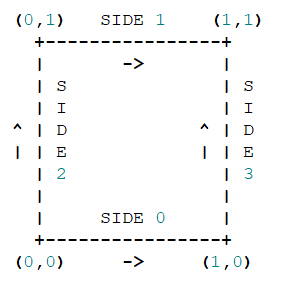
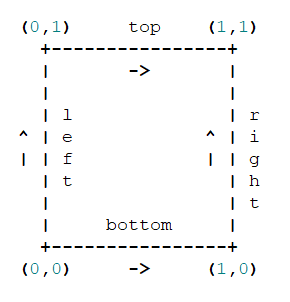
documentation update refs #21903

diff --git a/framework/doc/content/source/meshgenerators/TransfiniteMeshGenerator.md b/framework/doc/content/source/meshgenerators/TransfiniteMeshGenerator.md
@@ -9,7 +9,7 @@ The `TransfiniteMeshGenerator` produces two-dimensional meshes from a set of 4 c
 !media media/meshgenerators/quad_convention.png style=float:right;width:20%;margin-left:2%; caption=Fig. 1: Convention for the corner vertices order.
 
 Given a set of 4 corners the TransfiniteMeshGenerator constructs by default the straight edges that connect the vertices and fills up the interior with straight lines. The test, [quadrilater_generator.i](test/tests/meshgenerators/transfinite_generator/quadrilater_generator.i),
-illustrates the use of the `TransfiniteMeshGenerator` object to construct general quadrilaterals. The convention for the corners numbering should follow Fig. 1, where we use the alternative sides numbering instead of the top-bottom-left-right as in the input file, and should be prescribed in the order +(0,0) - (0,1) - (1,1) - (1,0)+.
+illustrates the use of the `TransfiniteMeshGenerator` object to construct general quadrilaterals. The convention for the corners numbering should follow Fig. 1, prescribed in the order +(0,0) - (0,1) - (1,1) - (1,0)+. The direction along edges, important in case they are user provided using the DISCRETE option, should follow the direction in Fig. 1.
 
 This generator allows any type of curvilinear edges. In Fig. 2 we show a mesh where the bottom edge has an inward arc circle. However, this algorithm generates a mesh for any parametrized edge, or given set of points on an edge. For arcs of a circle, since they are widely encounterened in applications, we customized an approach that requires from an user to specify only the deviation from a straight line in the middle of an edge. 
 
